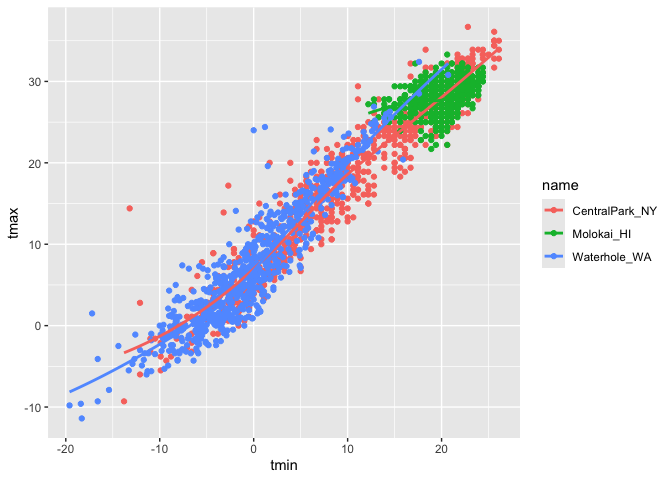
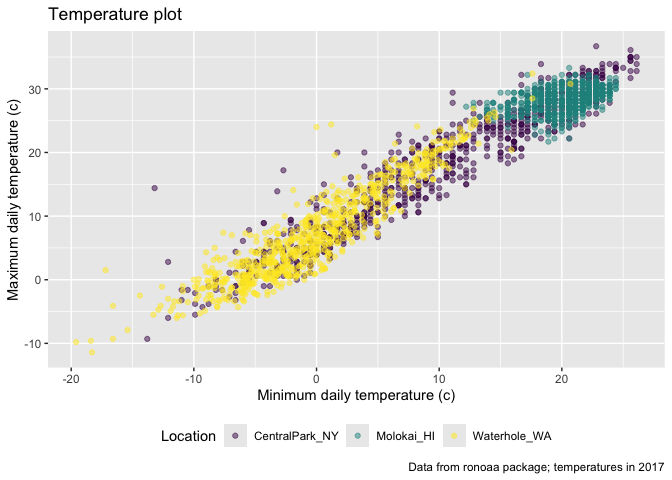
theme

diff --git a/viz_ii.md b/viz_ii.md
@@ -1,4 +1,4 @@
-viz_i
+viz_ii
 ================
 Jianing Chen
 2024-09-26
@@ -149,4 +149,60 @@ weather_df %>%
     ## Warning: Removed 17 rows containing missing values or values outside the scale range
     ## (`geom_point()`).
 
-![](viz_ii_files/figure-gfm/unnamed-chunk-4-1.png)<!-- -->
+![](viz_ii_files/figure-gfm/unnamed-chunk-4-1.png)<!-- --> \## Themes
+
+shift the legend.
+
+``` r
+weather_df %>%
+  ggplot(aes(x=tmin, y = tmax, color = name)) +
+  geom_point(alpha = .5) +
+  labs(
+    title = "Temperature plot",
+    x = "Minimum daily temperature (c)",
+    y = "Maximum daily temperature (c)",
+    caption = "Data from ronoaa package; temperatures in 2017"
+  )+
+  viridis::scale_color_viridis(
+    name = "Location",
+    discrete = TRUE)+
+  theme(legend.position = "bottom")
+```
+
+    ## Warning: Removed 17 rows containing missing values or values outside the scale range
+    ## (`geom_point()`).
+
+![](viz_ii_files/figure-gfm/unnamed-chunk-5-1.png)<!-- -->
+
+Change the overall theme.
+
+``` r
+weather_df %>%
+  ggplot(aes(x=tmin, y = tmax, color = name)) +
+  geom_point(alpha = .5) +
+  labs(
+    title = "Temperature plot",
+    x = "Minimum daily temperature (c)",
+    y = "Maximum daily temperature (c)",
+    caption = "Data from ronoaa package; temperatures in 2017"
+  )+
+  viridis::scale_color_viridis(
+    name = "Location",
+    discrete = TRUE)+
+    theme_minimal() +
+     theme(legend.positions = "bottom")
+```
+
+    ## Warning in plot_theme(plot): The `legend.positions` theme element is not
+    ## defined in the element hierarchy.
+
+    ## Warning: Removed 17 rows containing missing values or values outside the scale range
+    ## (`geom_point()`).
+
+![](viz_ii_files/figure-gfm/unnamed-chunk-6-1.png)<!-- -->
+
+``` r
+     ##theme_classic()
+     ##ggthemes::theme_economist()
+     ##ggthemes::theme_excel()
+```
